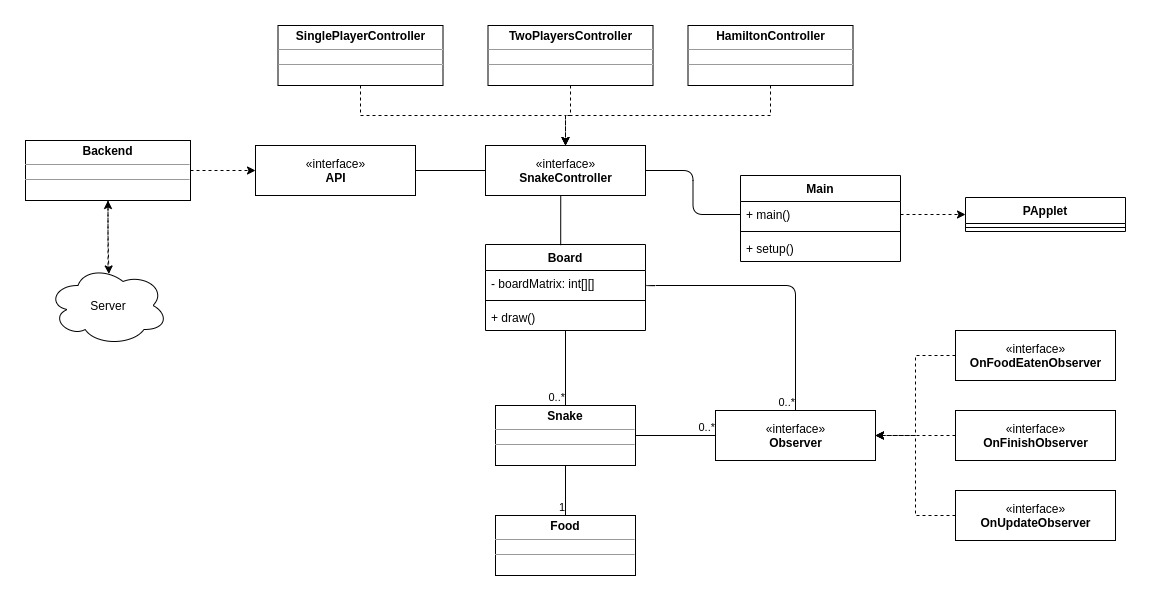
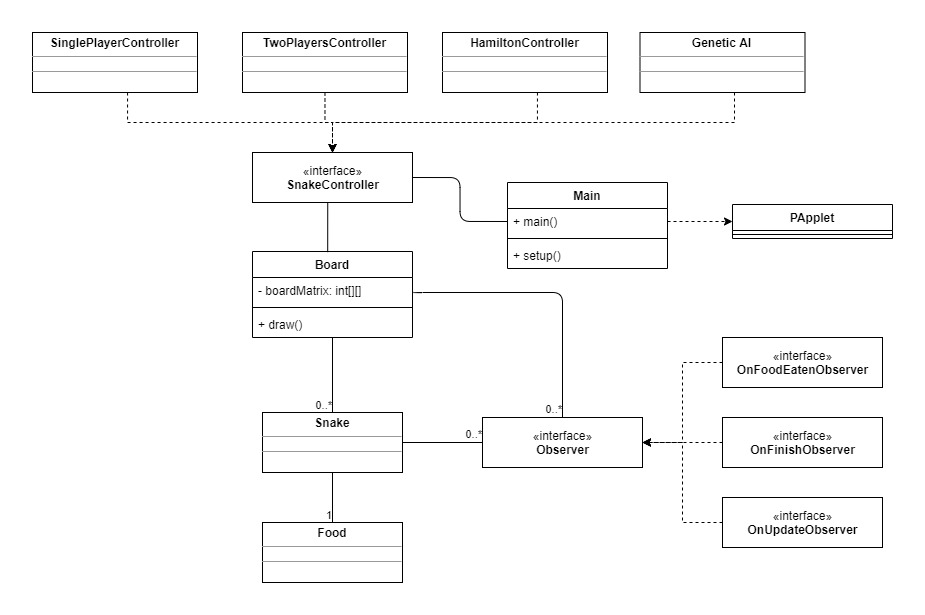
readme updated

diff --git a/README.md b/README.md
@@ -2,7 +2,7 @@
 
 ## About
 This is an advanced Snake game with the purpose of implementing good practices from the java specifications.
-It can be easily extended to different game modes. The current modes are: `Single Player`, `Two Players`, `Hamilton Mode`.
+It can be easily extended to different game modes. The current modes are: `Single Player`, `Two Players`, `Hamilton Mode`, `Genetic AI`.
 
 ### Single Mode
 This is the basic mode of the game. When a player dies his score is sent to an API made with `Spring Boot`
@@ -17,10 +17,29 @@ Here things start to get interesting... I hope. This is the first step in making
 has no brain. The snake will always follow a path that visits all the cells. This way the snake will never touch itself or
 the walls. The idea behind is creating a MST with half of the board then try to surround the 'lines' to get the path.
 More about this process in the resource section.
+
+### Genetic AI
+
+The idea of making this AI is combining a neural network with a genetic algorithm. So the snake will have a brain that can see the
+environmnet in 8 directions. For every direction the snake sees the distace between: food, wall and tal. So in total 8 * 3 = 24 distances.
+That is actually the input for the brain and as the output it get's what movement shoud do. 
+
+To combine with a genetic algorithm the brain is used as the snake gene converting it in gray codification. As a first step, a population
+of snakes is generated that explores the board. After the exploration is ending (all the snakes finished) the genetic algorihtm selectes them
+in such a way that the snakes with most scores have a higher chance of surviving for the next generation. Each snake receives a reward in
+the moment it get's the food and a snaller one for surviving.
+
+Right now the snakes figure out a way only to survive longer with getting at most two foods. Furder reseach needs to be made.
+
+Demo
+
+[![Demo](https://img.youtube.com/vi/nT1UmezI1NA/0.jpg)](https://www.youtube.com/watch?v=nT1UmezI1NA)
+
  
-### window.MainWindow Libraries/Frameworks Used
+### Libraries/Frameworks Used
  * [Processing](https://processing.org) : GUI
- * [Spring Boot](https://spring.io/projects/spring-boot) : Backend
+ * [Neural Network Library](https://github.com/StamateValentin/Artificial-Intelligence-Playground)
+ * [Genetic Algorithm Library](https://github.com/StamateValentin/Genetic-Algorithms-Playground)
 
 ## Class Diagram
 <img src="https://raw.githubusercontent.com/StamateValentin/Conquering-The-Snake/master/diagrams/diagram.jpg" alt="" style="border-radius: 8px">
